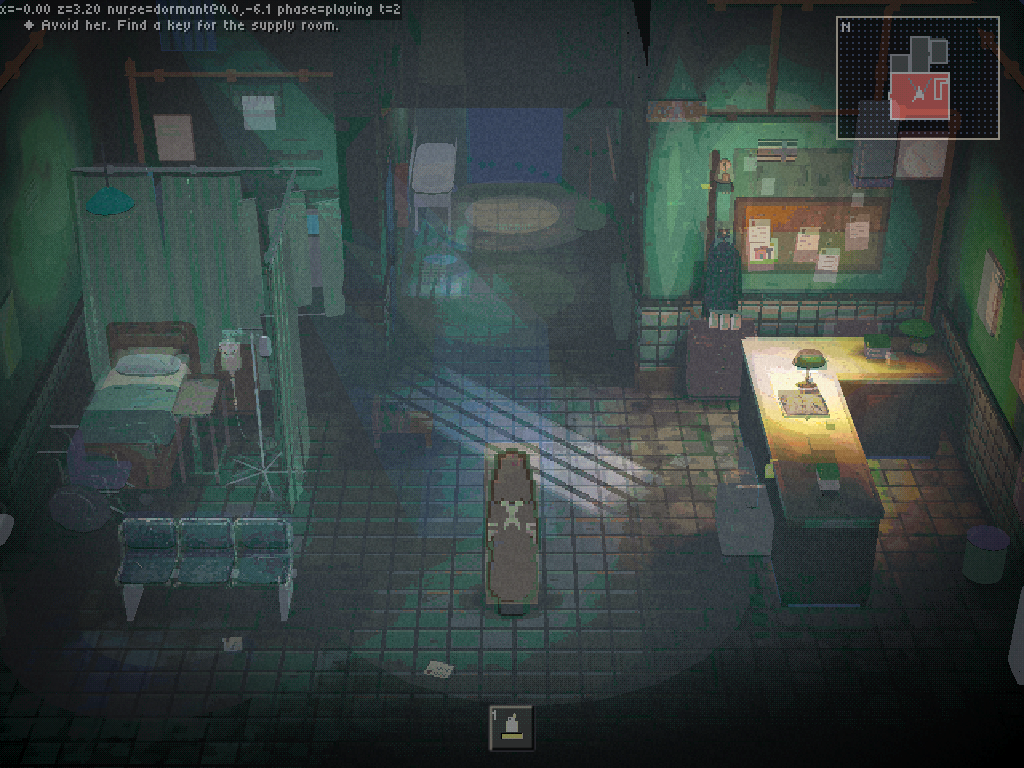
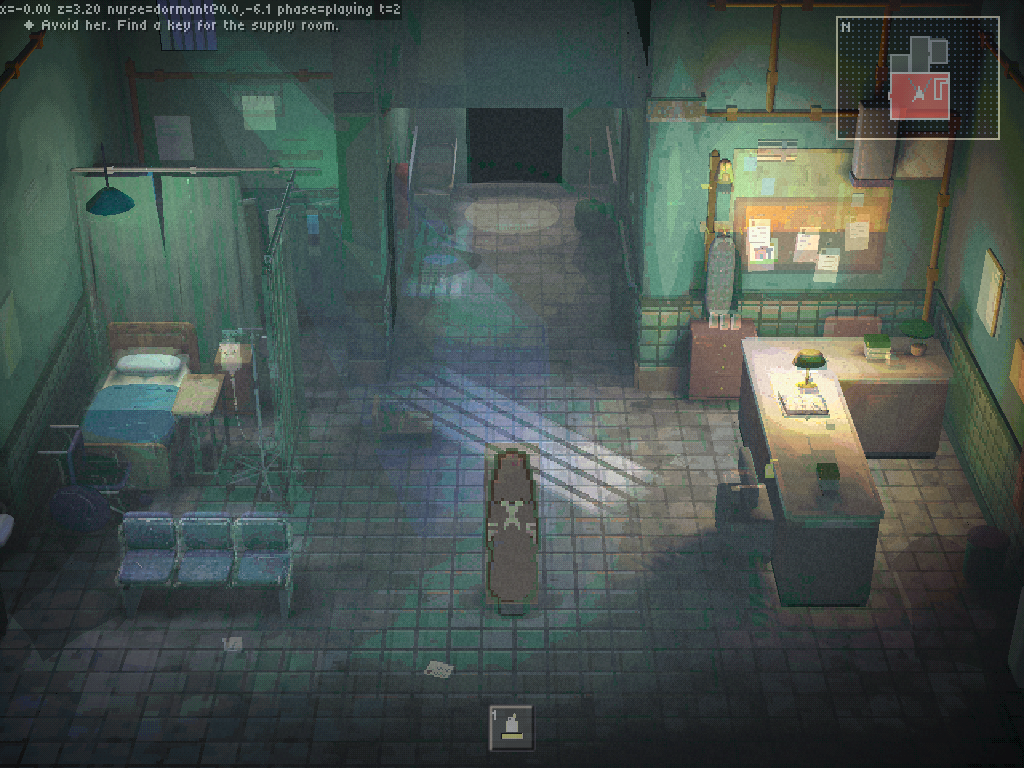
feat(clinic): the clinic draws room by room, with the wall tops back
The clinic's scene draws each piece in a layer its room owns (`@automata/room-visibility`'s `drawByRoom`, with the level's own
`visibility` policy), so a zone shows the rooms it sees and cuts its walls away: the corridor and supply frames no longer show the
hall's furniture. A prop is owned by the room it stands in, which the builder already gives each of its pieces (`piece.sector`).

`drawByRoom` now owns a mass's pieces (`<sector>:mass<N>:…`) by the policy's owners of N, not by the sector its middle falls in, so a
block shared by two rooms draws when either is seen. The converter sets `cap: true` again: a top carries its wall's line and cut
group, so it is hidden with its wall. The frames clear to black, as the source does, where the night sky showed blue past the building.

Claude-Session: https://claude.ai/code/session_01HNdX7MHZkVx1Gx8vXCmPe4

diff --git a/spikes/clinic/scene.ts b/spikes/clinic/scene.ts
@@ -22,6 +22,8 @@ import {
 import { readLevel } from '@automata/3d/level'
 import { CameraHeading, cameraView, enterView, MAX_CAMERA_TURN, START } from '@automata/3d/sim'
 import { defineComponent, defineGame, definePlugin, startGame } from '@automata/framework'
+import * as visibility from '@automata/room-visibility'
+import * as masks from '@automata/room-visibility/view'
 import { detectVideoAlphaMode, isWebGLSupported } from 'pixi.js'
 import clinic from './content/clinic.af-sector.json'
 import library from './content/clinic.library.json'
@@ -34,7 +36,8 @@ await detectVideoAlphaMode()
 const q = new URLSearchParams(location.search)
 const frame = q.get('frame') ?? 'play-hall'
 const turned = q.get('turned') === '1'
-// Bisecting switches: ?look=0 drops the look, ?light=0 the baked light, ?occ=0 the camera's occluder rule, ?walls=0 leaves out the walls.
+// Bisecting switches: ?look=0 drops the look, ?light=0 the baked light, ?occ=0 the camera's occluder rule, ?walls=0 leaves out the walls,
+// ?rooms=0 draws every room whatever the zone (room visibility off).
 const on = (key: string) => q.get(key) !== '0'
 // ?haze=0 switches the look's distance haze off.
 // The source's view fog is linear from 5 m before the camera's focus to 7 m past it (its `LOOK.haze`: near -5, far 7), full veil at the far
@@ -76,6 +79,10 @@ const VIEW = cameraView(ZONE_ID, { ...(zone as object), bounds } as never)
 // The player's heading: the home heading from `START`, one 45° step on for the turned frames.
 const HEADING = { ...enterView(START, VIEW, { x: 0, y: 0 }) }
 if (turned) HEADING.heading += MAX_CAMERA_TURN
+// Room visibility: the level's own policy, and its walls as cutaway groups.
+const policy = visibility.parseRoomPolicy(clinic.visibility)
+const groups = visibility.wallGroups(read.level)
+const isMask = (node: { label?: string }): boolean => node.label === 'room-mask'
 const Body = defineComponent('body', { x: 'f32', y: 'f32', z: 'f32' })
 const sky = time.scene.sky
 const skyMid = sky[Math.floor(sky.length / 2)]?.colour ?? '#808080'
@@ -104,7 +111,8 @@ startGame(
         look: on('look') ? LOOK : undefined,
         time,
         lighting: on('light') ? lighting : undefined,
-        backgroundColor: Number.parseInt(skyMid.slice(1), 16),
+        // The source clears to black (its `backgroundColor: 0x000000`); the level's night sky, mid-blue, showed past the building.
+        backgroundColor: on('sky') ? 0x000000 : Number.parseInt(skyMid.slice(1), 16),
         // A stand-in for the player, nothing at all in a zone still.
         views: {
           [Body.id]: box(kind === 'zone' ? { width: 0.01, height: 0.01, depth: 0.01 } : { width: 0.5, height: 1.62, depth: 0.3 }, { color: 0xffbc4e }),
@@ -116,10 +124,32 @@ startGame(
           view.environment = { skyColor: 0xcdd2da, groundColor: 0x3b303c }
           ;(window as unknown as { __camera: unknown }).__camera = view.camera
           view.passes.find((p): p is HazeEffect => p instanceof HazeEffect)?.focus(VIEW.distance - FOG_LEAD)
-          drawWorld(
-            { parent: view.root, occluders: on('occ') ? occluders : undefined, colourOf: (swatch) => swatchColour(library as never, swatch), tiles: albedoTiles(library.swatches as never), look: on('look') ? LOOK : undefined, light, models },
-            world.pieces.filter((p) => (on('walls') || p.part !== 'wall') && (on('tops') || !p.id.includes(':top:'))),
-          )
+          // Each room is drawn into a layer that room owns (a mass into the rooms the policy gives it), and a wall piece, its top
+          // with it, goes into its cutaway group as it is drawn. A zone then draws the rooms it sees and cuts its walls away.
+          const owned = masks.createRoomOwnership(view.root, policy)
+          const hider = masks.createWallHider()
+          const draw: masks.DrawByRoom<(typeof world.pieces)[number]>['draw'] = (parent, pieces) =>
+            drawWorld(
+              { parent, occluders: on('occ') ? occluders : undefined, colourOf: (swatch) => swatchColour(library as never, swatch), tiles: albedoTiles(library.swatches as never), look: on('look') ? LOOK : undefined, light, models },
+              pieces,
+            )
+          masks.drawByRoom({
+            owned,
+            policy,
+            groups,
+            hider,
+            pieces: world.pieces.filter((p) => (on('walls') || p.part !== 'wall') && (on('tops') || !p.id.includes(':top:'))),
+            draw,
+          })
+          owned.own(view.camera, 'global')
+          // The stand-in for the player and the lights are not room content: they draw in every room.
+          for (const node of [...view.root.children]) if (owned.owners(node as never) === undefined && !isMask(node)) owned.own(node as never, 'global')
+          owned.assertComplete()
+          const shown = on('rooms')
+            ? visibility.createRoomVisibility(policy, visibility.plansOf(read.level)).update({ zone: ZONE_ID, at: { x: focus.x, z: focus.z }, dt: 0, reducedMotion: true, cutscene: false })
+            : new Set(Object.keys(policy.rooms))
+          owned.apply(shown)
+          hider.apply(on('rooms') ? visibility.hiddenWallGroups(groups, ZONE_ID, false) : new Set())
           const { dataset } = stage.app.canvas
           dataset.renderer = (stage.app.renderer as unknown as { name: string }).name
           dataset.frame = frame
@@ -127,6 +157,7 @@ startGame(
           dataset.problems = String(world.problems.length)
           dataset.problemCodes = [...new Set(world.problems.map((p) => p.code))].join(',')
           dataset.lamps = String(lighting.lamps.length)
+          dataset.rooms = [...shown].sort().join(',')
           dataset.ready = '1'
           return undefined
         },

diff --git a/extensions/room-visibility/tests/unit/room-visibility/clinic-rooms.test.ts b/extensions/room-visibility/tests/unit/room-visibility/clinic-rooms.test.ts
@@ -1,0 +1,122 @@
+// The clinic (spikes/clinic/content, the converter's output) under room visibility: the level's own `visibility` policy
+// agrees with its sectors, every piece the world builder makes has a room to draw in (a prop in the room it stands in,
+// a mass in the rooms the policy gives it), and each wall's top goes with its wall when a zone cuts the wall away.
+import { readFileSync } from 'node:fs'
+import type { WorldPiece } from '@automata/3d'
+import { insideSector, readLevel } from '@automata/3d/level'
+import { buildWorld, type WorldLibrary } from '@automata/3d/props-kit'
+import '@automata/world-kit'
+import { describe, expect, it } from 'vitest'
+import {
+  checkRoomPolicy,
+  createRoomVisibility,
+  parseRoomPolicy,
+  plansOf,
+  wallGroupOfPiece,
+  wallGroups,
+} from '#src/entries/index.ts'
+
+const root = new URL('../../../../../', import.meta.url)
+const json = (path: string): any => JSON.parse(readFileSync(new URL(path, root), 'utf8'))
+const clinic = json('spikes/clinic/content/clinic.af-sector.json')
+const library: WorldLibrary = json('spikes/clinic/content/clinic.library.json')
+const { level } = readLevel(clinic)
+const policy = parseRoomPolicy(clinic.visibility)
+const world = buildWorld(level, library, { night: true })
+const roomOfSector = new Map(
+  Object.entries(policy.rooms).flatMap(([room, ids]) => ids.map((id) => [id, room] as const)),
+)
+const roomOf = (piece: WorldPiece): string | undefined => roomOfSector.get(piece.sector)
+const plans = plansOf(level)
+const propOf = (piece: WorldPiece): string | undefined => /^[^:]+:prop:(.+?)\.\d+\./.exec(piece.id)?.[1]
+
+describe('the clinic under room visibility', () => {
+  it('has a policy that agrees with its sectors, zones and masses', () => {
+    const facts = {
+      sectors: clinic.sectors.map((s: { id: string }) => s.id),
+      zones: ['hall', 'corridor', 'closet'],
+      massCount: clinic.masses.length,
+    }
+    expect(checkRoomPolicy(policy, facts)).toEqual([])
+  })
+
+  it('builds with no problem, and every piece has a room to draw in', () => {
+    expect(world.problems).toEqual([])
+    expect(world.pieces.filter((p) => roomOf(p) === undefined).map((p) => p.id)).toEqual([])
+  })
+
+  describe('props are owned by the room they stand in', () => {
+    const places: { id: string; at: number[] }[] = clinic.props
+    const standingIn = (at: number[]): string | undefined =>
+      plans.find((plan) => insideSector({ x: at[0] as number, z: at[1] as number }, plan))?.id
+    // Pipe runs and wall plaques start in the thickness of a wall's return, which is in no sector: the builder gives them
+    // the room of the nearest corner, which is the room of the wall they run along.
+    const OFF_PLAN: Record<string, string> = {
+      'dress-pipe-ne-low': 'reception',
+      'dress-pipe-ne-high': 'reception',
+    }
+
+    it('puts every piece of a prop in one room: the room of the sector its place is in', () => {
+      for (const place of places) {
+        const pieces = world.pieces.filter((p) => propOf(p) === place.id)
+        expect(pieces.length, place.id).toBeGreaterThan(0)
+        const rooms = new Set(pieces.map(roomOf))
+        expect(rooms.size, place.id).toBe(1)
+        const sector = standingIn(place.at)
+        const room = sector === undefined ? OFF_PLAN[place.id] : roomOfSector.get(sector)
+        expect(room, `${place.id} stands in a room, or is listed as off the plan`).toBeDefined()
+        expect([...rooms][0], place.id).toBe(room)
+      }
+    })
+
+    it('keeps the hall’s dressing out of the corridor and the supply room', () => {
+      // The player stands in the zone's own room: the corridor at (0, -3) and the supply room at (3, -4.2).
+      const stands: Record<string, { x: number; z: number }> = {
+        corridor: { x: 0, z: -3 },
+        closet: { x: 3, z: -4.2 },
+      }
+      const seen = (zone: string): ReadonlySet<string> =>
+        createRoomVisibility(policy, plans).update({
+          zone,
+          at: stands[zone] as { x: number; z: number },
+          dt: 0,
+          reducedMotion: true,
+          cutscene: false,
+        })
+      for (const zone of ['corridor', 'closet']) {
+        const shown = seen(zone)
+        const drawn = world.pieces.filter(
+          (p) => propOf(p)?.startsWith('dress-pipe-ne') && shown.has(roomOf(p) as string),
+        )
+        expect(
+          drawn.map((p) => p.id),
+          zone,
+        ).toEqual([])
+      }
+    })
+  })
+
+  describe('a wall’s top is cut away with its wall', () => {
+    const tops = world.pieces.filter((p) => p.id.includes(':top:'))
+    const groups = wallGroups(level)
+
+    it('is drawn for the walls that say so', () => {
+      expect(tops.length).toBeGreaterThan(0)
+    })
+
+    it('belongs to the cutaway group of the wall it stands on, with that wall’s face', () => {
+      for (const top of tops) {
+        const group = wallGroupOfPiece(groups, top)
+        expect(group, top.id).toBeDefined()
+        const faces = world.pieces.filter(
+          (p) =>
+            p !== top &&
+            p.part === 'wall' &&
+            !p.id.includes(':top:') &&
+            wallGroupOfPiece(groups, p)?.id === group?.id,
+        )
+        expect(faces.length, top.id).toBeGreaterThan(0)
+      }
+    })
+  })
+})

diff --git a/extensions/room-visibility/src/features/room-visibility/draw-by-room.ts b/extensions/room-visibility/src/features/room-visibility/draw-by-room.ts
@@ -3,7 +3,7 @@
 
 import type { Container3D } from '@pixi/3d'
 import type { RoomOwnership } from './room-ownership.ts'
-import { type RoomPolicy, roomOfSector } from './room-policy.schema.ts'
+import { type RoomOwners, type RoomPolicy, roomOfSector } from './room-policy.schema.ts'
 import { type WallGroup, type WallPiece, wallGroupOfPiece } from './wall-groups.ts'
 import type { Hideable, WallHider } from './wall-hider.ts'
 
@@ -23,16 +23,41 @@ export interface DrawByRoom<P extends RoomPiece> {
   readonly draw: (parent: Container3D, pieces: P[]) => { mesh(id: string): Hideable | undefined }
 }
 
-/** A piece whose sector is in no room is not drawn (`checkRoomPolicy` says so beforehand). */
+/** The mass a piece is part of: the builder names its pieces `<sector>:mass<index>:<part>`. */
+const massOf = (id: string): string | undefined => /^[^:]+:mass(\d+):/.exec(id)?.[1]
+
+/**
+ * A piece whose sector is in no room is not drawn (`checkRoomPolicy` says so beforehand). A mass's pieces are owned by the
+ * rooms the policy gives its index, not by the sector its middle falls in: a block between the ward and the corridor
+ * draws when either is seen.
+ */
 export function drawByRoom<P extends RoomPiece>(o: DrawByRoom<P>): void {
   const roomOf = roomOfSector(o.policy)
-  for (const room of Object.keys(o.policy.rooms)) {
-    const pieces = o.pieces.filter((piece) => roomOf.get(piece.sector) === room)
-    const drawn = o.draw(o.owned.layer([room]), pieces)
+  const massOwners = (piece: P): RoomOwners | undefined => {
+    const mass = massOf(piece.id)
+    return mass === undefined ? undefined : o.policy.masses[mass]
+  }
+  const layer = (owners: RoomOwners, pieces: P[]): void => {
+    const drawn = o.draw(o.owned.layer(owners), pieces)
     for (const piece of pieces) {
       const group = wallGroupOfPiece(o.groups, piece)
       const mesh = drawn.mesh(piece.id)
       if (group && mesh) o.hider.add(group.id, mesh)
     }
   }
+  for (const room of Object.keys(o.policy.rooms))
+    layer(
+      [room],
+      o.pieces.filter((piece) => massOwners(piece) === undefined && roomOf.get(piece.sector) === room),
+    )
+  const masses = new Map<string, { owners: RoomOwners; pieces: P[] }>()
+  for (const piece of o.pieces) {
+    const owners = massOwners(piece)
+    if (owners === undefined) continue
+    const key = owners === 'global' ? 'global' : [...owners].sort().join('+')
+    const held = masses.get(key) ?? { owners, pieces: [] }
+    masses.set(key, held)
+    held.pieces.push(piece)
+  }
+  for (const { owners, pieces } of masses.values()) layer(owners, pieces)
 }

diff --git a/extensions/room-visibility/tests/unit/room-visibility/draw-by-room.test.ts b/extensions/room-visibility/tests/unit/room-visibility/draw-by-room.test.ts
@@ -60,4 +60,53 @@ describe('drawByRoom', () => {
     const { owned } = setup()
     expect(() => owned.assertComplete()).not.toThrow()
   })
+
+  describe('masses', () => {
+    // A mass is drawn by the builder as `<sector>:mass<index>:<part>`, in the sector its middle falls in; the policy
+    // says which rooms own it, so a mass that two rooms share draws when either is seen.
+    const withMasses = () => {
+      const root = new Container3D()
+      const owned = createRoomOwnership(root, POLICY)
+      const meshes = new Map<string, { visible: boolean }>()
+      const layers: Record<string, string[]> = {}
+      drawByRoom({
+        owned,
+        policy: POLICY,
+        groups: wallGroups(LEVEL),
+        hider: createWallHider(),
+        pieces: [
+          piece('hall:floor', 'hall'),
+          piece('hall:mass0:top', 'hall', 'wall', { a: [0, 0], b: [1, 0] }),
+          piece('ward:mass0:face1', 'ward', 'wall', { a: [0, 4], b: [1, 4] }),
+          piece('corridor:mass1:top', 'corridor', 'wall', { a: [8, 0], b: [9, 0] }),
+        ],
+        draw: (parent, mine) => {
+          layers[String(root.getChildIndex(parent.parent as Container3D))] = mine.map((p) => p.id)
+          for (const p of mine) meshes.set(p.id, parent as unknown as { visible: boolean })
+          return { mesh: () => undefined }
+        },
+      })
+      return { owned, root, layers, meshes }
+    }
+
+    it('draws a mass in a layer owned by the policy owners of its index, whatever sector it is in', () => {
+      const { layers } = withMasses()
+      const drawn = Object.values(layers)
+      expect(drawn).toContainEqual(['hall:mass0:top', 'ward:mass0:face1'])
+      expect(drawn).toContainEqual(['corridor:mass1:top'])
+      expect(drawn).toContainEqual(['hall:floor'])
+    })
+
+    it('shows a shared mass while either of its rooms is seen, and a global mass always', () => {
+      const { owned, meshes } = withMasses()
+      const shown = (ids: string[]) => {
+        owned.apply(new Set(ids))
+        const visibleMask = (id: string) =>
+          (meshes.get(id) as unknown as { parent: { visible: boolean } }).parent.visible
+        return { shared: visibleMask('hall:mass0:top'), global: visibleMask('corridor:mass1:top') }
+      }
+      expect(shown(['ward'])).toEqual({ shared: true, global: true })
+      expect(shown(['corridor'])).toEqual({ shared: false, global: true })
+    })
+  })
 })

diff --git a/spikes/clinic/convert.ts b/spikes/clinic/convert.ts
@@ -43,10 +43,10 @@ const props = await load('props.ts', { './level': level })
 const visibility = await load('visibility.ts')
 
 // --- sectors ------------------------------------------------------------------------------------------------------
-// The source's trim for a wall nothing else says anything about: skirting, wainscot and rail. Its default also draws a top on
-// every wall (`cap`), which here is left off: the builder's tops (4.9 m up, across the masonry) do not cut away with their
-// walls yet, so the near walls' tops cross the frame as black lines. Room visibility (EnvironmentBuilder's) brings them back.
-const DEFAULT_TRIM = { skirting: 0.14, wainscot: 1.14, rail: 0.08, cap: false }
+// The source's trim for a wall nothing else says anything about: skirting, wainscot and rail, and a top on every wall (`cap`).
+// A top goes with its wall when a camera zone or the occluder rule cuts the wall away (the top carries the wall's `line` and
+// `cut`, so room visibility's wall hider hides it in the same group).
+const DEFAULT_TRIM = { skirting: 0.14, wainscot: 1.14, rail: 0.08, cap: true }
 const round = (n: number): number => Math.round(n * 1e6) / 1e6
 
 // The source's floor and its dimmer twin are tile grids (a 30 cm glaze with a dark grout line); the kit's `tileFloor` is that.
